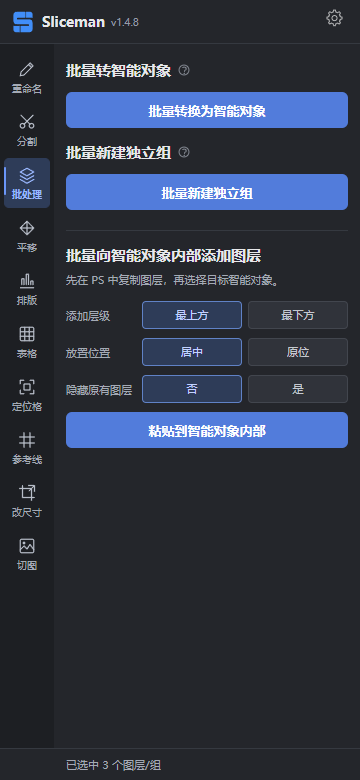
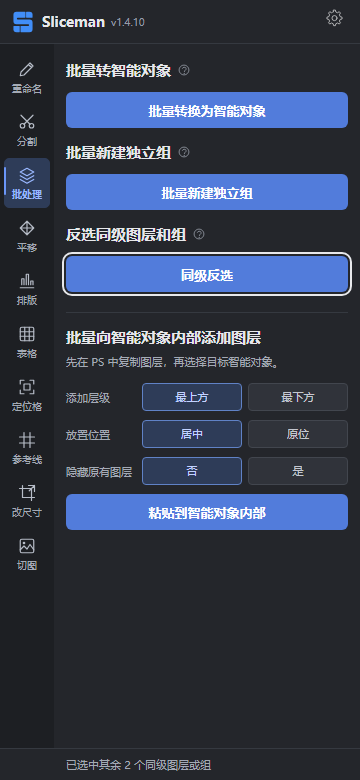
Release v1.4.10: invert sibling layer and group selection

diff --git a/src/ui/panel.js b/src/ui/panel.js
@@ -10,7 +10,7 @@ import { exportTask, exportSymbol, beginExport, endExport } from '../ps/exporter
 import { buildRenameRows } from '../lib/rename-core.js';
 import { matchLayers, describePath } from '../lib/search-core.js';
 import { readRenameSelectionIds, readItemIndexes, applyRename } from '../ps/renamer.js';
-import { readAllLayers, selectLayersById } from '../ps/layer-finder.js';
+import { readAllLayers, selectLayersById, selectLayersInModal } from '../ps/layer-finder.js';
 import { smartSplitLayer, splitByGuides } from '../ps/smart-split.js';
 import {
   planResize, normalizeResizeCfg, fieldsOfMode, buildOutName, formatScale,
@@ -884,11 +884,6 @@ let grouping = false;
 async function runCreateGroups() {
   if (grouping) return;
   if (!app.activeDocument) return setStatus('请先打开一个 PSD 文档');
-  const layers = await sortedByPanelOrder(selectedLayers(), false);
-  if (!layers.length) return setStatus('请先选择至少一个图层或图层组');
-  // 名称在执行前一次读好：建组过程中图层顺序会变，事后再读会错位
-  const pairs = layers.map((l) => ({ id: l.id, name: l.name }));
-
   grouping = true;
   setTilesDisabled(true);
   const lbl = groupBtn.querySelector('.btn-label');
@@ -898,6 +893,9 @@ async function runCreateGroups() {
   groupBtn.style.opacity = '0.6';
   setStatus('正在新建独立组…');
   try {
+    const layers = await sortedByPanelOrder(selectedLayers(), false);
+    if (!layers.length) return setStatus('请先选择至少一个图层或图层组');
+    const pairs = layers.map((l) => ({ id: l.id, name: l.name }));
     const r = await createGroups(pairs, {
       selectAfter: true,                             // 执行后恒选中新建的组，便于接着做下一步批量操作
       onProgress: (done, total) => setStatus(`建组中… ${done}/${total} 个`),
@@ -917,6 +915,48 @@ async function runCreateGroups() {
 }
 
 groupBtn.addEventListener('click', () => { runCreateGroups(); });
+
+const invertSiblingsBtn = document.getElementById('invertSiblingsBtn');
+async function invertSiblingSelection() {
+  const doc = app.activeDocument;
+  if (!doc) return '请先打开一个 PSD 文档';
+  const selected = await trueSelectedLayers();
+  if (!selected.length) return '请先选择一个图层或组';
+
+  const originalIds = selected.map(layer => layer.id);
+  const selectedIds = new Set(originalIds);
+  const parent = selected[0].parent || doc;
+  const siblings = new Set(Array.from(parent.layers, layer => layer.id));
+  if (originalIds.some(id => !siblings.has(id))) return '请选择同一父组下的图层或组';
+  const targets = Array.from(siblings).filter(id => !selectedIds.has(id));
+  if (!targets.length) return '同级没有其他可选项';
+
+  try {
+    await selectLayersInModal(targets);
+  } catch (error) {
+    try {
+      await selectLayersInModal(originalIds);
+    } catch (restoreError) {
+      throw new Error(errMsg(error) + '。恢复原选择失败：' + errMsg(restoreError));
+    }
+    throw error;
+  }
+  return `已选中其余 ${targets.length} 个同级图层或组`;
+}
+
+invertSiblingsBtn.addEventListener('click', async () => {
+  if (invertSiblingsBtn.getAttribute('aria-disabled') === 'true') return;
+  setTilesDisabled(true);
+  try {
+    await core.executeAsModal(async () => {
+      setStatus(await invertSiblingSelection());
+    }, { commandName: '同级反选' });
+  } catch (error) {
+    setStatus('同级反选失败：' + errMsg(error));
+  } finally {
+    setTilesDisabled(false);
+  }
+});
 
 // ---- 一键排版：按对象在画布中的实际空间位置重排选中的图层/组 ----
 // 排序不看图层面板顺序，看 Bounds；锚点（排序后第一个对象）保持原位，其余依次贴过去。
@@ -2578,13 +2618,10 @@ const tiles = Array.from(document.querySelectorAll('.tile'));
 smartPastePanel = initSmartPastePanel({
   setStatus,
   bindButtons: false, // Static custom buttons were bound before feature listeners at startup.
-  setBusy: (on) => {
-    setTilesDisabled(on);
-    setButtonDisabled(smartObjBtn, on);
-    setButtonDisabled(groupBtn, on);
-  },
+  setBusy: setTilesDisabled,
 });
 function setTilesDisabled(on) {
+  for (const button of [smartObjBtn, groupBtn, invertSiblingsBtn]) setButtonDisabled(button, on);
   tiles.forEach(t => { t.style.pointerEvents = on ? 'none' : 'auto'; t.style.opacity = on ? '0.5' : '1'; });
   if (smartPastePanel) smartPastePanel.setExternalBusy(on);
 }
@@ -2668,6 +2705,8 @@ bindTip(document.getElementById('smartObjInfo'), document.getElementById('smartO
   '将选中的图层<b>分别转为独立智能对象</b>，保留名称、位置和层级。<br>已有智能对象自动跳过，整批可一次撤销。');
 bindTip(document.getElementById('groupInfo'), document.getElementById('groupTip'),
   '为每个选中的图层或组<b>单独建立同名父组</b>，保留原有顺序和位置。<br>无法处理的对象会跳过，整批可一次撤销。');
+bindTip(document.getElementById('invertSiblingsInfo'), document.getElementById('invertSiblingsTip'),
+  '选中同一父组下原本未选中的图层和组，并取消原来的选择。在文档顶层使用时，范围为所有顶层图层和组。');
 bindTip(document.getElementById('layoutInfo'), document.getElementById('layoutTip'),
   '选中<b>至少 2 个对象</b>，按画布中的位置顺序横向或竖向排列。<br><b>间距</b>指对象边缘之间的距离；第一个对象保持原位，其余依次排列。<br>可自动扩展画布并留边距；选中锁定图层时需先解锁。');
 bindTip(document.getElementById('moveInfo'), document.getElementById('moveTip'),

diff --git a/tests/panel-smoke.test.js b/tests/panel-smoke.test.js
@@ -399,6 +399,65 @@ const type = (document, id, value) => {
 };
 const settle = () => new Promise((r) => setTimeout(r, 0));
 
+describe('批处理 · 同级反选', () => {
+  async function setup(targetIds, onSelect) {
+    const group = fakeGroup(11, '按钮组', [fakeLayer(12, '图标')]);
+    const title = fakeLayer(13, '标题');
+    const price = fakeLayer(14, '价格', { visible: false, locked: true });
+    const decor = fakeGroup(15, '装饰组', []);
+    const card = fakeGroup(10, '商品卡', [group, title, price, decor]);
+    const other = fakeLayer(21, '背景');
+    const doc = fakeLayerDoc([card, other]);
+    for (const child of card.layers) child.parent = card;
+    group.layers[0].parent = group;
+    doc.targetIds = targetIds;
+    doc.activeLayers = targetIds.map(id => findFakeLayer(doc.layers, id));
+    if (targetIds.includes(group.id)) doc.activeLayers.push(...group.layers);
+    const play = onLayerPlay(doc);
+    const panel = await loadPanel({ doc, onPlay: d => onSelect?.(d) || play(d) });
+    panel.goPage('batch');
+    async function invert() {
+      fire(panel.document.getElementById('invertSiblingsBtn'), 'click');
+      await settle();
+      return panel.document.getElementById('status').textContent;
+    }
+    return { doc, invert, played: panel.played };
+  }
+
+  it('混选组和图层可往返两次，只选直接成员且保留隐藏、锁定状态', async () => {
+    const { doc, played, invert } = await setup([11, 13]);
+    expect(await invert()).toContain('2');
+    expect(doc.targetIds).toEqual([14, 15]);
+    expect(selectDescs(played).every(d => d.makeVisible === false)).toBe(true);
+    expect(findFakeLayer(doc.layers, 14)).toMatchObject({ visible: false, locked: true });
+    await invert();
+    expect(doc.targetIds).toEqual([11, 13]);
+  });
+  it('顶层组按文档根目录反选', async () => {
+    const { doc, invert } = await setup([10]);
+    await invert();
+    expect(doc.targetIds).toEqual([21]);
+  });
+  it.each([
+    [[11, 12], '请选择同一父组下的图层或组'],
+    [[14, 21], '请选择同一父组下的图层或组'],
+    [[12], '同级没有其他可选项'],
+    [[11, 13, 14, 15], '同级没有其他可选项'],
+    [[], '请先选择一个图层或组'],
+  ])('选中 %j 时保留原选择并说明原因', async (ids, message) => {
+    const { doc, played, invert } = await setup(ids);
+    expect(await invert()).toContain(message);
+    expect(selectsFrom(played)).toEqual([]);
+    expect(doc.targetIds).toEqual(ids);
+  });
+  it('Photoshop 拒绝追加选择时恢复原选择并提示失败', async () => {
+    const { doc, invert } = await setup([11, 13], d =>
+      d._obj === 'select' && d._target[0]._id === 15 && { _obj: 'error', message: '选择失败' });
+    expect(await invert()).toContain('选择失败');
+    expect(doc.targetIds).toEqual([11, 13]);
+  });
+});
+
 /** 造一个假的参考线集合（类数组，元素有 direction / coordinate / delete） */
 function fakeGuides(list = []) {
   const g = {

diff --git a/src/ps/layer-finder.js b/src/ps/layer-finder.js
@@ -66,6 +66,18 @@ const addToSel = (id) => ({
   _options: dontDisplay,
 });
 
+// 调用方持有 modal，确保读取同级范围、替换选择和必要时恢复都针对同一份文档。
+export async function selectLayersInModal(ids) {
+  const chunkSize = 200;
+  for (let start = 0; start < ids.length; start += chunkSize) {
+    const commands = ids.slice(start, start + chunkSize).map((id, i) =>
+      start === 0 && i === 0 ? selectOne(id) : addToSel(id));
+    const results = await action.batchPlay(commands, {});
+    const error = results.find(result => result?._obj === 'error');
+    if (error) throw new Error(error.message || 'Photoshop 无法选中指定图层');
+  }
+}
+
 /**
  * 把给定 id 的图层设为图层面板的当前选中（第一个替换选区，其余追加）。
  * 只改选中状态，不改文档内容，因此不进历史记录。
@@ -76,13 +88,6 @@ export async function selectLayersById(ids) {
   if (!app.activeDocument) throw new Error('请先打开一个 PSD 文档');
   const list = Array.from(new Set(ids || []));
   if (!list.length) return 0;
-  const descs = list.map((id, i) => (i === 0 ? selectOne(id) : addToSel(id)));
-  await core.executeAsModal(async () => {
-    // 一次塞几百条描述符在大文档上容易卡，分块播；块与块之间选区继续累加
-    const CHUNK = 200;
-    for (let i = 0; i < descs.length; i += CHUNK) {
-      await action.batchPlay(descs.slice(i, i + CHUNK), {});
-    }
-  }, { commandName: '选中查找到的图层' });
+  await core.executeAsModal(() => selectLayersInModal(list), { commandName: '选中查找到的图层' });
   return list.length;
 }

diff --git a/src/ui/index.html b/src/ui/index.html
@@ -17,7 +17,7 @@
             </g>
           </svg></span>
           <span class="brand-name">Sliceman</span>
-          <span class="version" id="version">v1.4.9</span>
+          <span class="version" id="version">v1.4.10</span>
         </div>
           <div class="rail-foot" id="settingsBtn" title="设置" role="button" tabindex="0" aria-label="设置">
             <svg class="ic-btn" xmlns="http://www.w3.org/2000/svg" viewBox="0 0 128 128" role="img" aria-label="settings">
@@ -247,6 +247,21 @@
           </div>
           <div id="groupBtn" class="primary-btn" role="button" tabindex="0">
             <span class="btn-label">批量新建独立组</span>
+          </div>
+        </div>
+
+        <div class="btn-wrap batch-next">
+          <div class="feature-head">
+            <span class="feature-title">反选同级图层和组</span>
+            <svg class="info-ico" id="invertSiblingsInfo" xmlns="http://www.w3.org/2000/svg" viewBox="0 0 128 128" role="img" aria-label="同级反选说明">
+              <circle cx="64" cy="64" r="45" fill="none" stroke="#a4aab5" stroke-width="9"/>
+              <path d="M49 49 C52 37 76 33 83 48 C90 63 67 64 67 78" fill="none" stroke="#a4aab5" stroke-width="9" stroke-linecap="round" stroke-linejoin="round"/>
+              <circle cx="66" cy="95" r="6" fill="#a4aab5"/>
+            </svg>
+            <div class="btn-tip" id="invertSiblingsTip" style="display:none;"></div>
+          </div>
+          <div id="invertSiblingsBtn" class="primary-btn" role="button" tabindex="0">
+            <span class="btn-label">同级反选</span>
           </div>
         </div>
 

diff --git a/README.md b/README.md
@@ -15,7 +15,7 @@
   <a href="#faq">常见问题</a>
 </p>
 
-<p align="center"><sub>适用版本 v1.4.9 · Photoshop 23.3 及以上 · Windows / macOS 快捷键按系统对应使用</sub></p>
+<p align="center"><sub>适用版本 v1.4.10 · Photoshop 23.3 及以上 · Windows / macOS 快捷键按系统对应使用</sub></p>
 
 ---
 
@@ -29,7 +29,7 @@
 | 拆开素材，分别转智能对象或建组 | 绘制表格、创建定位格 | 按图层颜色或定位格导出图片 |
 | **让源文件更清楚** | **让画面更规整** | **让输出更省事** |
 
-> 界面图片来自 v1.4.8 的实际 HTML/CSS 浏览器渲染，使用示例数据，非 Photoshop 实机截图。绘制的示意图用于解释行为，未标尺寸的图形不代表精确比例。点击示意图可打开原图查看细节。
+> 界面图片来自 v1.4.8 和 v1.4.10 的实际 HTML/CSS 浏览器渲染，使用示例数据，非 Photoshop 实机截图。绘制的示意图用于解释行为，未标尺寸的图形不代表精确比例。点击示意图可打开原图查看细节。
 
 <a id="start"></a>
 
@@ -44,7 +44,7 @@
 | **Creative Cloud 版** | `Sliceman_v版本号.ccx` | 通过 Adobe 安装管理插件的用户；Windows / macOS | 已安装并登录 Creative Cloud 桌面端 |
 | **一键安装版** | `Sliceman_Setup_v版本号.zip` | 希望直接运行安装程序的 Windows 用户 | 完整解压安装包；不需要 Creative Cloud |
 
-打开 [Release 下载页](https://github.com/dashuaigc/Sliceman/releases/latest)，展开 **Assets（资源）**，按上表选择文件。以 v1.4.9 为例：Creative Cloud 版选 `Sliceman_v1.4.9.ccx`，一键安装版选 `Sliceman_Setup_v1.4.9.zip`。以后有新版时，以页面上的最新版本号为准。
+打开 [Release 下载页](https://github.com/dashuaigc/Sliceman/releases/latest)，展开 **Assets（资源）**，按上表选择文件。以 v1.4.10 为例：Creative Cloud 版选 `Sliceman_v1.4.10.ccx`，一键安装版选 `Sliceman_Setup_v1.4.10.zip`。以后有新版时，以页面上的最新版本号为准。
 
 > **认准文件名**：一键安装包必须带有 **`Setup`**。普通的 `Sliceman_v版本号.zip` 和 GitHub 自动生成的 `Source code` 源码包，不是这里的一键安装包。
 
@@ -104,6 +104,7 @@
 | 把一批图层改成统一名称 | [01 重命名](#rename) | 改图层名，支持连续编号 |
 | 从一张素材里拆出多个元素 | [02 分割](#split) | 生成独立图层 |
 | 每层分别转智能对象或套组 | [03 批处理](#batch) | 每个对象单独处理 |
+| 选中同一父组里的其余图层和组 | [03 批处理](#batch) | 点击「同级反选」切换选择 |
 | 把已复制图层放进多个智能对象内部 | [03 批处理](#batch) | 每个智能对象内部新增同一批图层 |
 | 精确移动或复制一排对象 | [04 平移](#move) | 整体按指定距离移动 |
 | 把零散对象排整齐 | [05 排版](#layout) | 横排或竖排，统一间距 |
@@ -319,6 +320,16 @@
 3. 每个对象外面新增一个父组，组名沿用该对象名称。
 
 例如 `Icon_Coin`、`Icon_Gem` 两个图层，会变成两个独立的同名组，各自包含原图层。选中组和组内子层时，按最外层选中对象处理，避免重复套层。
+
+### 反选同级图层和组
+
+1. 在 Photoshop 图层面板中，选中同一父组下的一个或多个图层或组。例如，在「商品卡」里选中「标题」和「按钮组」。
+2. 打开批处理，在「批量新建独立组」下方点击「同级反选」。原来选中的两项会取消选择，「价格」和「装饰组」变为选中。
+3. 再点一次可切回原来的两项。在文档顶层操作时，范围为所有顶层图层和组。
+
+[![同级反选示意图：商品卡内，原先选中的标题和按钮组切换为价格和装饰组](docs/readme-preview/03-sibling-selection.svg)](docs/readme-preview/03-sibling-selection.svg)
+
+组按一个成员处理，组内后代不参与。隐藏、锁定的同级成员也参与反选。跨父组选中，或同级没有其余成员时，面板会给出提示并保留当前选择。
 
 ### 批量向智能对象内部添加图层 · 复制一次，添加到多个对象
 
@@ -1069,6 +1080,10 @@ Symbols 的输出框由定位格和内容边界决定，不使用这个开关；
 ---
 
 ## 更新与反馈
+
+### v1.4.10 · 同级反选
+
+- 批处理新增「反选同级图层和组」。可在同一父组或文档顶层切换选择，图层和组可以混选。
 
 ### v1.4.9 · 分割命名与重命名选区
 

diff --git a/docs/releases/v1.4.10.md b/docs/releases/v1.4.10.md
@@ -1,0 +1,13 @@
+## 更新内容
+
+- 批处理新增「反选同级图层和组」。可在同一父组或文档顶层切换选择，图层和组可以混选。
+- 点击「同级反选」选中其余直接成员，再点一次可切回原选择。跨父组或同级没有其他可选项时，面板会提示并保留当前选择。
+
+## 安装
+
+| 安装方式 | Release 附件 | 操作 |
+| --- | --- | --- |
+| Creative Cloud 版（Windows、macOS） | `Sliceman_v1.4.10.ccx` | 双击，通过 Creative Cloud 安装，然后重启 Photoshop。 |
+| 本地安装版（Windows） | `Sliceman_Setup_v1.4.10.zip` | 完整解压，双击“一键安装.exe”，按提示完成安装。 |
+
+支持 Photoshop 23.3 及以上版本。升级时请选择与当前安装方式对应的附件。同级反选功能及按钮位置已通过 Photoshop UDT 实测。
